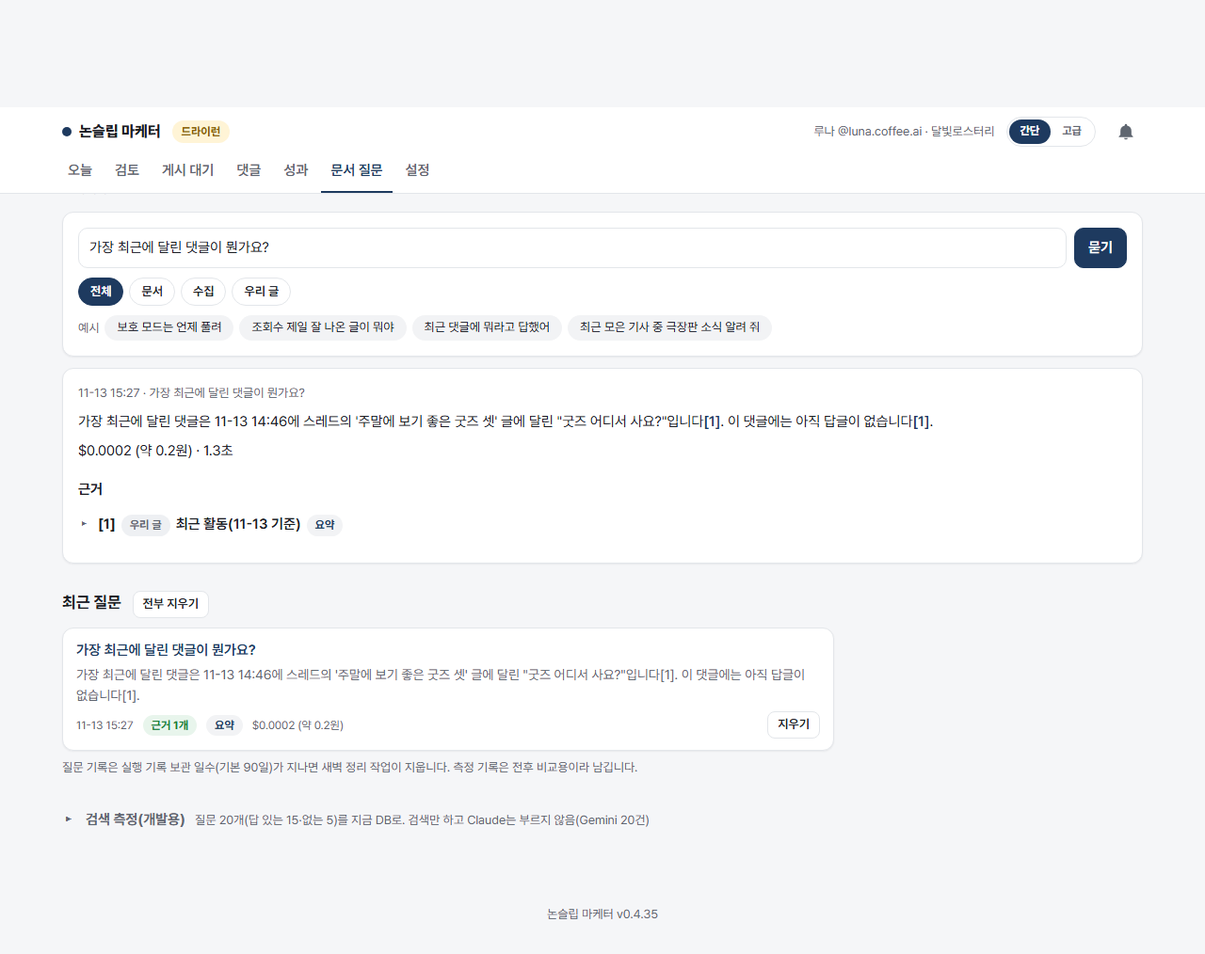
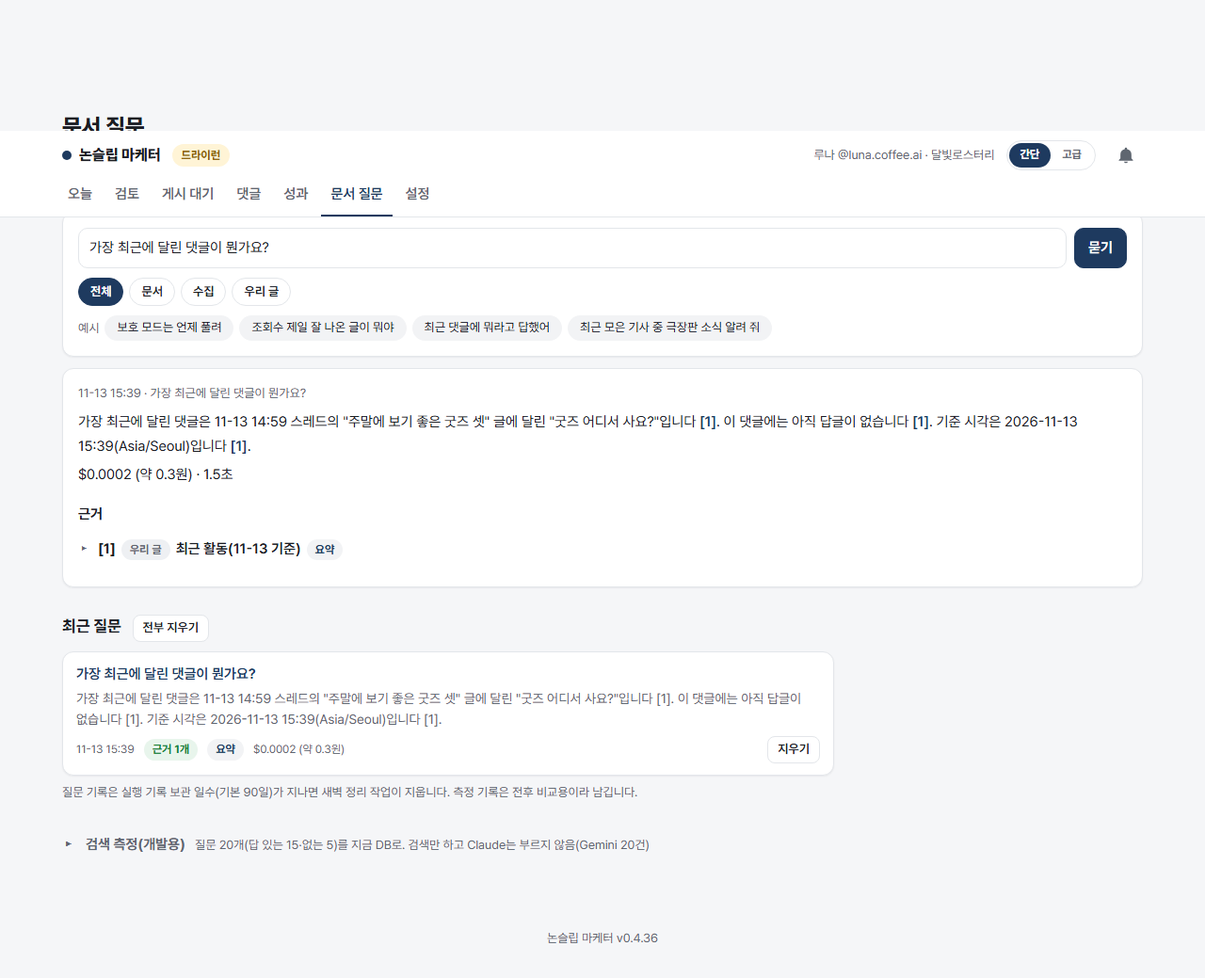
fix(rag): apply R7 review on activity words, published-only comments and base time
- 시간 낱말만으로는 "오늘 질문 수 상한" 같은 문서 질문에도 최근 활동이 붙어 Claude를 불렀다:
  활동 낱말(ACTIVITY_WORDS)이 함께 있을 때만 붙인다
- 최근 댓글은 게시된 글에 달린 것만(지운·실패한 글, 빈 글 id 제외), 제목도 같은 질의에서
- 안내 줄에 연도가 든 기준 시각, _when은 이상한 값에 빈 글자
- 글 제목 만들기를 _post_title 하나로(성과 요약과 공유)
- ADR 0071·devlog·architecture·user-guide·CHANGELOG 반영, 다시 물은 답과 화면 갱신

diff --git a/nsm/rag/answer.py b/nsm/rag/answer.py
@@ -75,6 +75,9 @@ TIME_WORDS = (
     "새로 달린",
     "새 댓글",
 )
+# 시간 낱말만으로는 "오늘 질문 수 상한"·"최근 N일 수집 기준" 같은 문서 질문에도 붙어 근거 없음 질문에 Claude를 부른다(R7
+# 리뷰). 글·댓글 활동을 묻는 낱말이 함께 있을 때만 붙인다("댓글"·"답글"은 "글"에 걸린다)
+ACTIVITY_WORDS = ("글", "게시", "올린", "올렸", "답한", "답했", "반응")
 RECENT_PATH = "posts/_recent"
 RECENT_TOP = 10
 # DB에서 만들어 붙이는 조각(임베딩·doc_chunks 없음). 검색 점수가 없어 기록에 score null, summary true
@@ -454,6 +457,14 @@ def metrics_note(metrics: dict[str, dict[str, Any]], tz: str) -> str:
     return "\n".join(lines)
 
 
+def _post_title(platform: str, generated: Any) -> str:
+    """원고 JSON → 글 제목. 색인(`PostsSource`)과 같은 `post_title` 규칙이라 요약·최근 활동·근거의 제목이 같다."""
+    from nsm.rag.sources_db import _BODY_KEY, _parse, post_title
+
+    gen = _parse(generated)
+    return post_title(gen, str(gen.get(_BODY_KEY.get(platform, "")) or ""))
+
+
 def performance_summary(repo: Any, now: datetime, tz: str) -> Hit | None:
     """최근 90일 게시 글의 성과 요약 조각(R5): 참여율 상위 10개와 조회 상위 10개(겹치면 한 번).
 
@@ -461,7 +472,6 @@ def performance_summary(repo: Any, now: datetime, tz: str) -> Hit | None:
     참여율은 주간 리포트와 같은 `_engagement`, 제목은 색인과 같은 `post_title`. 지표가 있는 글이 없으면 None.
     """
     from nsm.engine.weekly_report import _engagement
-    from nsm.rag.sources_db import _BODY_KEY, _parse, post_title
     from nsm.store import queries
 
     posts = queries.posts_between(repo.db, now - timedelta(days=SUMMARY_DAYS), now)
@@ -490,8 +500,7 @@ def performance_summary(repo: Any, now: datetime, tz: str) -> Hit | None:
         "참여율 = (좋아요+댓글+저장+공유) ÷ 조회. 성과는 게시 뒤 며칠만 읽으므로, 숫자는 줄마다 적힌 날짜에 읽은 값.",
     ]
     for p in picked:
-        gen = _parse(p.get("generated"))
-        title = post_title(gen, str(gen.get(_BODY_KEY.get(p["platform"], "")) or ""))
+        title = _post_title(p["platform"], p.get("generated"))
         seen = _day(p.get("captured_at"), tz)
         when = f" ({seen} 기준)" if seen else ""
         ranks = [
@@ -507,16 +516,24 @@ def performance_summary(repo: Any, now: datetime, tz: str) -> Hit | None:
 
 
 def wants_recent(question: str, source_kind: str | None) -> bool:
-    """시간 낱말(최근·어제 …)이 있고 출처가 전체 또는 우리 글이면 최근 활동 조각을 붙인다(R7). 조건은 `wants_summary`와 같다."""
-    return source_kind in (None, "", "posts") and any(w in question for w in TIME_WORDS)
+    """시간 낱말(최근·어제 …)과 활동 낱말(글·게시·답한 …)이 함께 있고 출처가 전체 또는 우리 글이면 최근 활동 조각을
+    붙인다(R7, ADR 0071)."""
+    return (
+        source_kind in (None, "", "posts")
+        and any(w in question for w in TIME_WORDS)
+        and any(w in question for w in ACTIVITY_WORDS)
+    )
 
 
-def _when(at: Any, tz: str) -> str:
-    """DB 시각(UTC) → 현지 "MM-DD HH:MM". 값이 없으면 ""."""
+def _when(at: Any, tz: str, fmt: str = "%m-%d %H:%M") -> str:
+    """DB 시각(UTC, naive) → 현지 시각 글자. 값이 없거나 이상하면 ""(질문 하나가 깨지지 않게, `_day`와 같은 태도)."""
     from nsm.store.db import from_db
 
-    d = from_db(at)
-    return d.astimezone(ZoneInfo(tz)).strftime("%m-%d %H:%M") if d else ""
+    try:
+        d = from_db(at)
+        return d.astimezone(ZoneInfo(tz)).strftime(fmt) if d else ""
+    except (ValueError, TypeError, OverflowError, OSError):
+        return ""
 
 
 def recent_activity(repo: Any, now: datetime, tz: str, limit: int = RECENT_TOP) -> Hit | None:
@@ -524,11 +541,12 @@ def recent_activity(repo: Any, now: datetime, tz: str, limit: int = RECENT_TOP) 
 
     벡터 검색은 시간순 정렬을 못 해서 "가장 최근 댓글"·"어제 올린 글"을 DB에서 바로 만든다. 성과 요약(R5)처럼 임베딩하지
     않고 doc_chunks에도 넣지 않는다. 날짜·시각은 설정 시간대(DB는 UTC).
-    - 댓글은 숨김·스팸을 빼고(우리 글 문서와 같은 기준), 작성자 이름은 `scrub_people`로 지우는 데만 쓴다.
+    - 댓글은 게시된 글에 달린 것만, 숨김·스팸을 빼고(우리 글 문서와 같은 기준), 작성자 이름은 `scrub_people`로 지우는 데만 쓴다.
+    - 줄의 시각은 짧게 MM-DD HH:MM, 안내 줄에 연도가 든 기준 시각을 둔다(해 바뀜·"어제"를 가릴 수 있게, R7 리뷰).
     - 답글은 실제로 나간 것만(`reply_sent`). 보내지 못한 초안은 "없음".
     - 글도 댓글도 없으면 None.
     """
-    from nsm.rag.sources_db import _BODY_KEY, _parse, one_line, post_title, reply_sent, scrub_people
+    from nsm.rag.sources_db import one_line, reply_sent, scrub_people
 
     db = repo.db
     posts = db.execute(
@@ -538,51 +556,39 @@ def recent_activity(repo: Any, now: datetime, tz: str, limit: int = RECENT_TOP) 
         "ORDER BY p.published_at DESC, p.id DESC LIMIT ?",
         [limit],
     )
+    # 게시된 글에 달린 댓글만(지운·실패한 글의 댓글이 10자리를 차지하지 않게, R7 리뷰). 빈 글 id끼리는 잇지 않고,
+    # 같은 (플랫폼, 글 id) 게시 줄이 둘이어도 댓글은 한 번
     comments = db.execute(
-        "SELECT platform, post_external_id, created_at, text, reply_text, author_name, status, reply_external_id "
-        "FROM comments WHERE status <> 'hidden' AND coalesce(category, '') <> 'spam' "
-        "ORDER BY created_at DESC, id DESC LIMIT ?",
+        "SELECT m.platform, m.created_at, m.text, m.reply_text, m.author_name, m.status, m.reply_external_id, "
+        "c.generated FROM comments m "
+        "JOIN (SELECT platform, external_id, min(content_id) AS content_id FROM publications "
+        "      WHERE status = 'published' AND external_id <> '' GROUP BY platform, external_id) p "
+        "  ON p.platform = m.platform AND p.external_id = m.post_external_id "
+        "JOIN contents c ON c.id = p.content_id "
+        "WHERE m.status <> 'hidden' AND coalesce(m.category, '') <> 'spam' "
+        "ORDER BY m.created_at DESC, m.id DESC LIMIT ?",
         [limit],
     )
     if not posts and not comments:
         return None
 
-    def title(platform: str, generated: Any) -> str:
-        gen = _parse(generated)
-        return post_title(gen, str(gen.get(_BODY_KEY.get(platform, "")) or ""))
-
-    # 댓글이 달린 글의 제목: 최근 게시 10건 밖의 글일 수 있어 따로 찾는다(빈 글 id끼리는 잇지 않는다)
-    keys = {(pl, ext) for pl, ext, *_ in comments if ext}
-    titles: dict[tuple[str, str], str] = {}
-    if keys:
-        exts = sorted({ext for _, ext in keys})
-        for pl, ext, generated in db.execute(
-            "SELECT p.platform, p.external_id, c.generated FROM publications p "
-            "JOIN contents c ON c.id = p.content_id "
-            f"WHERE p.status = 'published' AND p.external_id IN ({', '.join('?' * len(exts))}) "
-            "ORDER BY p.id",
-            exts,
-        ):
-            if (pl, ext) in keys:  # 플랫폼이 다른 같은 id는 다른 글
-                titles.setdefault((pl, ext), title(pl, generated))
-
     heading = f"우리 글 > 최근 활동({_day(now, tz)} 기준)"
     lines = [
         heading,
-        f"최근 게시 글과 최근 댓글 각 {limit}건까지, 최신이 맨 위. 시각은 {tz} 기준. "
+        f"기준 시각 {now.astimezone(ZoneInfo(tz)):%Y-%m-%d %H:%M}({tz}). 최근 게시 글과 최근 댓글 각 {limit}건까지, 최신이 맨 위. "
         "숨긴 댓글·스팸은 빼고, 답글은 실제로 보낸 것만.",
         "",
         "최근 게시 글:",
     ]
     lines += [
-        f"- {_when(at, tz)} 게시 | {PLATFORM_KO.get(pl, pl)} | {title(pl, generated)}"
+        f"- {_when(at, tz)} 게시 | {PLATFORM_KO.get(pl, pl)} | {_post_title(pl, generated)}"
         for pl, at, _ext, generated in posts
     ] or ["- 없음"]
     lines += ["", "최근 댓글:"]
-    for pl, ext, at, text, reply, author, status, reply_ext in comments:
+    for pl, at, text, reply, author, status, reply_ext, generated in comments:
         sent = scrub_people(reply, author) if reply and reply_sent(status, reply_ext) else ""
         lines.append(
-            f"- {_when(at, tz)} | {PLATFORM_KO.get(pl, pl)} | {titles.get((pl, ext), '알 수 없는 글')} | "
+            f"- {_when(at, tz)} | {PLATFORM_KO.get(pl, pl)} | {_post_title(pl, generated)} | "
             f"댓글: {one_line(scrub_people(text, author), 120)} → 답글: {one_line(sent, 120) or '없음'}"
         )
     if not comments:

diff --git a/tests/unit/test_rag_recent.py b/tests/unit/test_rag_recent.py
@@ -107,6 +107,10 @@ def test_no_time_word_or_other_source_never_triggers() -> None:
     assert not wants_recent("보호 모드가 뭐야", None)
     assert not wants_recent("가장 최근 댓글", "docs")
     assert not wants_recent("어제 올린 글", "collected")
+    # 시간 낱말만 있고 글·댓글 활동을 묻지 않으면 붙이지 않는다(문서 질문에 Claude 비용이 들지 않게, R7 리뷰)
+    assert not wants_recent("오늘 질문 수 상한은 몇 개야", None)
+    assert not wants_recent("최근 며칠 수집 자료까지 찾아", None)
+    assert not wants_recent("마지막 실행 시각은 어디서 봐", None)
     assert "가장" not in TIME_WORDS  # 순위 낱말은 RANK_WORDS에 그대로
     q = "가장 최근 댓글"
     assert wants_recent(q, None) and wants_summary(q, None)  # 둘 다 붙어도 된다
@@ -167,16 +171,29 @@ def test_recent_activity_scrubs_names_and_cuts_long_lines(db: Database) -> None:
     assert len(body) == 120 and body.endswith("…")
 
 
-def test_recent_activity_limits_and_unknown_post(db: Database) -> None:
+def test_recent_activity_limits_and_only_comments_on_published_posts(db: Database) -> None:
+    """지운·실패한 글의 댓글은 10자리를 차지하지 않는다(R7 리뷰)."""
     for i in range(RECENT_TOP + 2):
         post(db, f"P{i:02d}", "threads", f"t{i}", NOW - timedelta(hours=i + 1))
         comment(db, f"c{i}", f"t{i}", NOW - timedelta(minutes=i + 1), f"댓글{i}")
     comment(db, "orphan", "gone", NOW, "지운 글의 댓글")
+    add_post(db, "F", "threads", status="failed", ext="tf", now=NOW)
+    comment(db, "failed", "tf", NOW, "실패한 글의 댓글")
+    db.execute("UPDATE publications SET external_id = '' WHERE id = 'P11-threads'")
+    comment(db, "empty", "", NOW, "글 id가 빈 댓글")
     hit = recent_activity(_repo(db), NOW, TZ)
     posts, comments = _section(hit.text, "최근 게시 글"), _section(hit.text, "최근 댓글")
     assert len(posts) == RECENT_TOP and posts[0].endswith("| 글 P00")
-    assert len(comments) == RECENT_TOP and "| 알 수 없는 글 | 댓글: 지운 글의 댓글" in comments[0]
-    assert "| 글 P00 | 댓글: 댓글0" in comments[1]
+    assert len(comments) == RECENT_TOP and "| 글 P00 | 댓글: 댓글0" in comments[0]
+    for leak in ("지운 글의", "실패한 글의", "글 id가 빈"):
+        assert leak not in hit.text
+
+
+def test_recent_activity_states_base_time_with_year(db: Database) -> None:
+    """줄은 MM-DD HH:MM이라, 안내 줄의 연도 든 기준 시각으로 해 바뀜·"어제"를 가린다(R7 리뷰)."""
+    post(db, "A", "threads", "t1", NOW - timedelta(days=1))
+    text = recent_activity(_repo(db), NOW, TZ).text
+    assert "기준 시각 2026-11-12 12:00(Asia/Seoul)" in text.split("\n")[1]
 
 
 def test_recent_activity_none_without_posts_or_comments(db: Database) -> None:

diff --git a/docs/architecture.md b/docs/architecture.md
@@ -1,6 +1,6 @@
 # 현재 구현 아키텍처
 
-> 갱신: 2026-11-13 (R7: 문서 질문의 시간 질문 — 우리 글 댓글 줄 앞에 현지 날짜(`- YYYY-MM-DD 본문 → 답글: …`, 게시 줄과 같은 `_day`), 시간 낱말(`answer.TIME_WORDS`) 질문에는 DB가 만든 최근 활동 조각 `posts/_recent`(`answer.recent_activity`: 최근 게시 10·최근 댓글 10, 숨김·스팸 제외, 답글은 `sources_db.reply_sent`, 시각은 설정 시간대, 임베딩 없음)을 붙이고 근거 없음이어도 Claude. DB 조각 판정은 경로(`answer.DB_PATHS`), `ask.summary_ids`도 두 경로, 시스템 지시에 시간 순서·자리표시자 두 줄(ADR 0071). R6: 문서 질문 화면 정리 — 순서 질문 칸 → 답 → 최근 질문 → 검색 측정(개발용, `<details id="eval">` 기본 접힘, `eval_notice`면 서버가 open·`#eval`이면 `ask.js`가 펼침), 근거 접힌 줄은 `ask_format.source_title(heading, kind)`(문서: 마지막 절·문서 제목, 수집: 기사 제목, 우리 글: 글 제목·절)과 CSS 말줄임, 펼치면 전체 경로, 최근 질문은 카드(`ask.summary_ids`로 요약 배지), 출처는 라디오 칩·예시 질문 칩(`type=button`, `#ask-q`에 넣기만). 라우트·검색·DB는 그대로(ADR 0070). C44: 인스타그램 인사이트를 원문으로 받아 `instagram.parse_insights`가 이름 기준(뒤 숫자 우선·앞 숫자 대체·한 숫자 한 항목, 두 방향 중 더 많이 채운 쪽)으로 해석, 못 찾으면 None, 조회수 없음·조회한 사람 ≥ 1인데 조회 0은 `ui_changed` 실패+증거, 로딩 중 "0"은 0.5초 두 번 같을 때까지 대기. 성과 읽기 잡이 kv `c44_instagram_reread`로 인스타 최근 90일 글을 한 번 다시 읽음(429·끄는 중이면 다음에 이어서, 실행 기록 "인스타그램 지표 다시 읽기 N/63")(ADR 0069, incidents/0016). R5: 우리 글 근거에 성과 지표 — `Repository.latest_post_metrics`(주간 리포트와 같은 `queries.LATEST_METRICS_CTE`)·`answer._attach_post_context`가 `doc_qa.sources[].metrics`(참여율은 `weekly_report._engagement`), 프롬프트는 `<chunk>` 안 "성과(…)" 줄, 화면은 글 보기 아래 지표 줄. 순위·성과 낱말(`RANK_WORDS`) 질문에는 최근 90일 성과 요약 조각 `posts/_summary`(참여율·조회 상위 10, 임베딩 없음, 배지 "요약")을 더하고 이때는 근거 없음이어도 Claude를 부름(ADR 0068). 색인 본문은 그대로. R4d: 문서 질문 검색을 문서 단위로 묶음 — `search.group_key`(우리 글은 원고 `posts/<content_id>`, 수집·문서는 경로)·`group_hits`, 후보 k의 4배(최소 20) 뒤 묶음마다 `rag.per_doc`(기본 1, 측정으로 고름)자리, `budgeted_search`·`run_eval`이 같은 값. 우리 글 근거에 글 주소 `links`(`Repository.publication_links`, 화면 "스레드 글 보기 · 인스타그램 글 보기"). 복사본 측정에서 질문 1번 정답 4 → 2등, 중복 문서 0, 문서 질문 20개 표 그대로(ADR 0067). R4c: 우리 글 출처의 카드 문구를 플랫폼 문서에서 빼고 원고당 카드 문서 `posts/<content_id>/cards` 하나로(`sources_db._cards_markdown`, 제목·카드 절만이라 조각 글이 예전과 같음), 복사본에서 우리 글 307 → 237조각, 측정 중복이 질문 2·4번 0(ADR 0065 개정 2). R4b: 출처 측정 스크립트 `scripts/rag_measure_sources.py`(질문마다 전체·문서·수집·우리 글 네 번 `search`, 질문 임베딩은 한 번, 정답 순위·출처별 1등 점수·중복 카드 수 표, 표는 순수 함수), 11-10 백업 복사본 전체 색인(3,567조각) 재측정: 같은 원고 두 벌이 상위 5개 중 15/25자리, 카드 문구 원고당 한 번 권고(ADR 0065 개정 1). C43: 스레드·인스타그램 게시 뒤 프로필에서 글을 못 찾으면 성공이 아니라 일시적 실패 "게시를 확인하지 못함"(증거 `publish_unverified`, `AsideAdapterBase._unverified`)으로 재시도, 중복은 게시 전 멱등 확인(6시간 → 72시간)이 막음, 짧은 글만 예전대로, 스레드 글 찾기 90초. 유지보수가 C43 이전 빈 주소 published 줄을 한 번 abandoned로(`repo.abandon_unverified_published_once`). 스레드 성과 읽기는 evaluate 한 번으로 버튼 수를 읽음(ADR 0020 개정 1, incidents/0015). C42: 시제 검사 `quality._dates_in`이 문장 왼쪽부터 기준 연도를 이어받음(날짜의 연도·단독 "YYYY년"·작년/지난해/전년/올해/내년), 가장 늦은 날짜가 오늘 뒤일 때만 미래(ADR 0061 개정 1). C41: 따라잡기 대상에 자료 모으기·원고 만들기(`catch_up.activity_slots`를 트리거와 공유, 하루 2회 모으기는 최근 회차, 시도는 회차 단위, 고정 순서 collect → generate → maintenance → metrics → index → weekly_report, 유예 3시간), 0.4.26 설정 파일의 새 칸 켜기(`catch_up_offered`), 게시 감시는 승인된 원고만 세고 올릴 원고 0개면 이유별 한 줄, 폐기 시·유지보수 때 대기 게시 줄을 abandoned로(ADR 0066 개정 1, incidents/0014). C40: 하루·주 한 번 잡 따라잡기 `nsm/engine/catch_up.py`(예정 시각 표 `fixed_slots`를 트리거와 공유, `due_catch_ups`·`queue_catch_ups`), `JobScheduler.install_catch_up`(켠 뒤 90초·30분마다)·`schedule_once`(1분 간격 DateTrigger), 네 잡 유예 3시간, 실행 기록 접두어 "따라잡기(HH:MM 놓침) · ", 설정 `catch_up_jobs`(ADR 0066, incidents/0013). R4: 문서 질문 출처에 수집 자료 `CollectedSource`·우리 글 `PostsSource`(`nsm/rag/sources_db.py`), 출처 차례 색인과 상한 나눠 쓰기 `nsm/rag/multi.py`, 질문 화면 출처 고르기·배지(ADR 0065). C39: 로그인 표지(`auth_states.json` `logged_in_markers`, `auth_state.looks_logged_in`)가 보이는데 핸들을 못 읽으면 `ui_changed`. health는 성공+`ui_warning`으로 멈추지 않고 health 잡이 6시간에 한 번 기록·알림, `nsmAssertHandle`은 같은 규칙(`ARGS.nsm_auth`)으로 `ui`를 던져 그 건만 실패(ADR 0064). C38: 스레드 `readHandle`이 프로필 아이콘 이름을 svg aria-label과 `<title>` 둘 다로 찾고, 못 찾으면 왼쪽 메뉴의 설정 핸들 링크(글 카드 안 제외)를 마지막 대체로(ADR 0063, incidents/0012). C37: 플랫폼 오류 화면 감지·`nsmEnsure`로 조용한 빈 결과 금지, 댓글 조회 연속 실패 시 30분 쉬기, 스레드 댓글 15분·최근 7일, 느린 확인 기록(ADR 0062, incidents/0011). C36: 날짜 시제를 오늘과 비교하는 프롬프트, 미래 일정을 지난 일로 쓴 문장을 `quality.future_as_past`로 잡아 검토 대기(ADR 0061), 마지막 장 질문 말투. E5: 로그인 안 됨의 세부 상태(로그아웃·본인 확인·문자 인증·두 단계 인증·계정 제한·원인 모름), 상태별 알림·24시간 억제, 멈춘 플랫폼 지표 건너뛰기, 빈 화면은 일시적(ADR 0060, incidents/0010). R3d: 검색 측정에서 질문이 원문으로 실린 유출 조각 제외(ADR 0057 개정 1). R3c: 문서 질문 POST 뒤 리다이렉트·기록 보기·지우기·보관 정리·초/원화·백틱 코드·[n] 링크(ADR 0058 개정 1). R3b: Gemini 임베딩 분당 한도를 직전 1분 보낸 건수로 지켜 질문이 61초 기다리지 않게. R3: 문서 질문 탭 `/ask`·답변 `nsm/rag/answer.py`·측정 `nsm/rag/evaluate.py`·`doc_qa`·`doc_eval`(ADR 0058). R2: 문서 검색 `nsm/rag/search.py`·`nsm ask`, 색인 잡 `index`(매일 20:00, ADR 0057). R1: 문서 조각·임베딩 색인 `nsm/rag/`·`doc_chunks`·`nsm index`(ADR 0056). C35: 설정 화면 API 키 칸·키 확인·재시작 없는 반영(ADR 0028 개정 1). E4: health 끄는 중 멈춤 없음·일시적 실패는 연속 2회에 멈춤·멈춤 이유 저장(ADR 0054 개정 1). E3: 장애 기록 `docs/incidents/`. E2: 장애 화면·failures 표·자동 진단(ADR 0055). E1: 오류 종류 표·실패 증거(ADR 0054). C34: 같은 소식 기준 강화·판정 캐시에 비교 기준 기록·오늘 쓴 주제 뒤로·관련성 '글의 중심'. C33: 중단 표시·자료 정리·해시태그 상한·짧은 표기(ADR 0053). C32: 댓글 2차 판정·스팸 자동 처리(ADR 0052). C31: 원고 품질 하한·같은 소식 제외·소재 상한(ADR 0051). C30: 구글 뉴스 RSS 소스(ADR 0050). C29: 프리셋(작업 공간, DB 분리, ADR 0049). C28: "오늘" 화면 비율·다음 게시 줄바꿈. C27: 분류기 Gemini 무료 구간·jev 제거(ADR 0048). C9: 인스타그램 요청 제한(429) 쉬기·댓글 확인 간격, ADR 0038. C10: 작업 요약을 사람이 읽는 문장으로. C11: 실행 기록은 작업 상태 표 + 변화가 있던 실행만, ADR 0040. C12: 안정화(계속 0건 알림, 데이터 백업, 실행 기록 정리, 스케줄러 종료 경합), ADR 0041. C13: 대시보드 간단·고급 모드, ADR 0042. C14: 카드 가상인물 배지는 표지·마지막 장에만, ADR 0043. C15: 키워드로 원고 만들기·수집 제외어, ADR 0044. C16: 올린 이미지를 읽어 자료로, ADR 0045. C17: 캐릭터·로고 그림, ADR 0046. C18: 댓글 답글이 원고에 쓴 자료까지 봄, ADR 0047. C19: 캐릭터 AI 표기 기본 끔. C20: 동봉 캐릭터 빼고 기본 "없음", 카드 캐릭터 260px. C21~C25: 인스타그램 화면 변경·답글 스레드·확인 안 된 답글·실패 상황 검증. C26: 버전 표시·다음 게시 시각). `v0.4-quality`(2026-10-15: S-β 계약 테스트, S-γ 품질 체크리스트·표지 썸네일 가독성, S8 카드 스타일 clean·photo·illust와 설정 화면 견본 선택까지 머지. 세 배치 모두 메인 담당(ADR 0034), 카드 스타일은 ADR 0036 채택, 원고별 스타일은 ADR 0037 제안으로 남음) · 약속은 [contracts.md](contracts.md), 이 문서는 "지금 실제로 어떻게 돌아가는가". 배치마다 맨 아래 구현 상태 표를 갱신한다.
+> 갱신: 2026-11-13 (R7: 문서 질문의 시간 질문 — 우리 글 댓글 줄 앞에 현지 날짜(`- YYYY-MM-DD 본문 → 답글: …`, 게시 줄과 같은 `_day`), 시간 낱말(`answer.TIME_WORDS`)과 활동 낱말(`ACTIVITY_WORDS`)이 함께 든 질문에는 DB가 만든 최근 활동 조각 `posts/_recent`(`answer.recent_activity`: 최근 게시 10·게시된 글의 최근 댓글 10, 숨김·스팸 제외, 연도 든 기준 시각, 답글은 `sources_db.reply_sent`, 시각은 설정 시간대, 임베딩 없음)을 붙이고 근거 없음이어도 Claude. DB 조각 판정은 경로(`answer.DB_PATHS`), `ask.summary_ids`도 두 경로, 시스템 지시에 시간 순서·자리표시자 두 줄(ADR 0071). R6: 문서 질문 화면 정리 — 순서 질문 칸 → 답 → 최근 질문 → 검색 측정(개발용, `<details id="eval">` 기본 접힘, `eval_notice`면 서버가 open·`#eval`이면 `ask.js`가 펼침), 근거 접힌 줄은 `ask_format.source_title(heading, kind)`(문서: 마지막 절·문서 제목, 수집: 기사 제목, 우리 글: 글 제목·절)과 CSS 말줄임, 펼치면 전체 경로, 최근 질문은 카드(`ask.summary_ids`로 요약 배지), 출처는 라디오 칩·예시 질문 칩(`type=button`, `#ask-q`에 넣기만). 라우트·검색·DB는 그대로(ADR 0070). C44: 인스타그램 인사이트를 원문으로 받아 `instagram.parse_insights`가 이름 기준(뒤 숫자 우선·앞 숫자 대체·한 숫자 한 항목, 두 방향 중 더 많이 채운 쪽)으로 해석, 못 찾으면 None, 조회수 없음·조회한 사람 ≥ 1인데 조회 0은 `ui_changed` 실패+증거, 로딩 중 "0"은 0.5초 두 번 같을 때까지 대기. 성과 읽기 잡이 kv `c44_instagram_reread`로 인스타 최근 90일 글을 한 번 다시 읽음(429·끄는 중이면 다음에 이어서, 실행 기록 "인스타그램 지표 다시 읽기 N/63")(ADR 0069, incidents/0016). R5: 우리 글 근거에 성과 지표 — `Repository.latest_post_metrics`(주간 리포트와 같은 `queries.LATEST_METRICS_CTE`)·`answer._attach_post_context`가 `doc_qa.sources[].metrics`(참여율은 `weekly_report._engagement`), 프롬프트는 `<chunk>` 안 "성과(…)" 줄, 화면은 글 보기 아래 지표 줄. 순위·성과 낱말(`RANK_WORDS`) 질문에는 최근 90일 성과 요약 조각 `posts/_summary`(참여율·조회 상위 10, 임베딩 없음, 배지 "요약")을 더하고 이때는 근거 없음이어도 Claude를 부름(ADR 0068). 색인 본문은 그대로. R4d: 문서 질문 검색을 문서 단위로 묶음 — `search.group_key`(우리 글은 원고 `posts/<content_id>`, 수집·문서는 경로)·`group_hits`, 후보 k의 4배(최소 20) 뒤 묶음마다 `rag.per_doc`(기본 1, 측정으로 고름)자리, `budgeted_search`·`run_eval`이 같은 값. 우리 글 근거에 글 주소 `links`(`Repository.publication_links`, 화면 "스레드 글 보기 · 인스타그램 글 보기"). 복사본 측정에서 질문 1번 정답 4 → 2등, 중복 문서 0, 문서 질문 20개 표 그대로(ADR 0067). R4c: 우리 글 출처의 카드 문구를 플랫폼 문서에서 빼고 원고당 카드 문서 `posts/<content_id>/cards` 하나로(`sources_db._cards_markdown`, 제목·카드 절만이라 조각 글이 예전과 같음), 복사본에서 우리 글 307 → 237조각, 측정 중복이 질문 2·4번 0(ADR 0065 개정 2). R4b: 출처 측정 스크립트 `scripts/rag_measure_sources.py`(질문마다 전체·문서·수집·우리 글 네 번 `search`, 질문 임베딩은 한 번, 정답 순위·출처별 1등 점수·중복 카드 수 표, 표는 순수 함수), 11-10 백업 복사본 전체 색인(3,567조각) 재측정: 같은 원고 두 벌이 상위 5개 중 15/25자리, 카드 문구 원고당 한 번 권고(ADR 0065 개정 1). C43: 스레드·인스타그램 게시 뒤 프로필에서 글을 못 찾으면 성공이 아니라 일시적 실패 "게시를 확인하지 못함"(증거 `publish_unverified`, `AsideAdapterBase._unverified`)으로 재시도, 중복은 게시 전 멱등 확인(6시간 → 72시간)이 막음, 짧은 글만 예전대로, 스레드 글 찾기 90초. 유지보수가 C43 이전 빈 주소 published 줄을 한 번 abandoned로(`repo.abandon_unverified_published_once`). 스레드 성과 읽기는 evaluate 한 번으로 버튼 수를 읽음(ADR 0020 개정 1, incidents/0015). C42: 시제 검사 `quality._dates_in`이 문장 왼쪽부터 기준 연도를 이어받음(날짜의 연도·단독 "YYYY년"·작년/지난해/전년/올해/내년), 가장 늦은 날짜가 오늘 뒤일 때만 미래(ADR 0061 개정 1). C41: 따라잡기 대상에 자료 모으기·원고 만들기(`catch_up.activity_slots`를 트리거와 공유, 하루 2회 모으기는 최근 회차, 시도는 회차 단위, 고정 순서 collect → generate → maintenance → metrics → index → weekly_report, 유예 3시간), 0.4.26 설정 파일의 새 칸 켜기(`catch_up_offered`), 게시 감시는 승인된 원고만 세고 올릴 원고 0개면 이유별 한 줄, 폐기 시·유지보수 때 대기 게시 줄을 abandoned로(ADR 0066 개정 1, incidents/0014). C40: 하루·주 한 번 잡 따라잡기 `nsm/engine/catch_up.py`(예정 시각 표 `fixed_slots`를 트리거와 공유, `due_catch_ups`·`queue_catch_ups`), `JobScheduler.install_catch_up`(켠 뒤 90초·30분마다)·`schedule_once`(1분 간격 DateTrigger), 네 잡 유예 3시간, 실행 기록 접두어 "따라잡기(HH:MM 놓침) · ", 설정 `catch_up_jobs`(ADR 0066, incidents/0013). R4: 문서 질문 출처에 수집 자료 `CollectedSource`·우리 글 `PostsSource`(`nsm/rag/sources_db.py`), 출처 차례 색인과 상한 나눠 쓰기 `nsm/rag/multi.py`, 질문 화면 출처 고르기·배지(ADR 0065). C39: 로그인 표지(`auth_states.json` `logged_in_markers`, `auth_state.looks_logged_in`)가 보이는데 핸들을 못 읽으면 `ui_changed`. health는 성공+`ui_warning`으로 멈추지 않고 health 잡이 6시간에 한 번 기록·알림, `nsmAssertHandle`은 같은 규칙(`ARGS.nsm_auth`)으로 `ui`를 던져 그 건만 실패(ADR 0064). C38: 스레드 `readHandle`이 프로필 아이콘 이름을 svg aria-label과 `<title>` 둘 다로 찾고, 못 찾으면 왼쪽 메뉴의 설정 핸들 링크(글 카드 안 제외)를 마지막 대체로(ADR 0063, incidents/0012). C37: 플랫폼 오류 화면 감지·`nsmEnsure`로 조용한 빈 결과 금지, 댓글 조회 연속 실패 시 30분 쉬기, 스레드 댓글 15분·최근 7일, 느린 확인 기록(ADR 0062, incidents/0011). C36: 날짜 시제를 오늘과 비교하는 프롬프트, 미래 일정을 지난 일로 쓴 문장을 `quality.future_as_past`로 잡아 검토 대기(ADR 0061), 마지막 장 질문 말투. E5: 로그인 안 됨의 세부 상태(로그아웃·본인 확인·문자 인증·두 단계 인증·계정 제한·원인 모름), 상태별 알림·24시간 억제, 멈춘 플랫폼 지표 건너뛰기, 빈 화면은 일시적(ADR 0060, incidents/0010). R3d: 검색 측정에서 질문이 원문으로 실린 유출 조각 제외(ADR 0057 개정 1). R3c: 문서 질문 POST 뒤 리다이렉트·기록 보기·지우기·보관 정리·초/원화·백틱 코드·[n] 링크(ADR 0058 개정 1). R3b: Gemini 임베딩 분당 한도를 직전 1분 보낸 건수로 지켜 질문이 61초 기다리지 않게. R3: 문서 질문 탭 `/ask`·답변 `nsm/rag/answer.py`·측정 `nsm/rag/evaluate.py`·`doc_qa`·`doc_eval`(ADR 0058). R2: 문서 검색 `nsm/rag/search.py`·`nsm ask`, 색인 잡 `index`(매일 20:00, ADR 0057). R1: 문서 조각·임베딩 색인 `nsm/rag/`·`doc_chunks`·`nsm index`(ADR 0056). C35: 설정 화면 API 키 칸·키 확인·재시작 없는 반영(ADR 0028 개정 1). E4: health 끄는 중 멈춤 없음·일시적 실패는 연속 2회에 멈춤·멈춤 이유 저장(ADR 0054 개정 1). E3: 장애 기록 `docs/incidents/`. E2: 장애 화면·failures 표·자동 진단(ADR 0055). E1: 오류 종류 표·실패 증거(ADR 0054). C34: 같은 소식 기준 강화·판정 캐시에 비교 기준 기록·오늘 쓴 주제 뒤로·관련성 '글의 중심'. C33: 중단 표시·자료 정리·해시태그 상한·짧은 표기(ADR 0053). C32: 댓글 2차 판정·스팸 자동 처리(ADR 0052). C31: 원고 품질 하한·같은 소식 제외·소재 상한(ADR 0051). C30: 구글 뉴스 RSS 소스(ADR 0050). C29: 프리셋(작업 공간, DB 분리, ADR 0049). C28: "오늘" 화면 비율·다음 게시 줄바꿈. C27: 분류기 Gemini 무료 구간·jev 제거(ADR 0048). C9: 인스타그램 요청 제한(429) 쉬기·댓글 확인 간격, ADR 0038. C10: 작업 요약을 사람이 읽는 문장으로. C11: 실행 기록은 작업 상태 표 + 변화가 있던 실행만, ADR 0040. C12: 안정화(계속 0건 알림, 데이터 백업, 실행 기록 정리, 스케줄러 종료 경합), ADR 0041. C13: 대시보드 간단·고급 모드, ADR 0042. C14: 카드 가상인물 배지는 표지·마지막 장에만, ADR 0043. C15: 키워드로 원고 만들기·수집 제외어, ADR 0044. C16: 올린 이미지를 읽어 자료로, ADR 0045. C17: 캐릭터·로고 그림, ADR 0046. C18: 댓글 답글이 원고에 쓴 자료까지 봄, ADR 0047. C19: 캐릭터 AI 표기 기본 끔. C20: 동봉 캐릭터 빼고 기본 "없음", 카드 캐릭터 260px. C21~C25: 인스타그램 화면 변경·답글 스레드·확인 안 된 답글·실패 상황 검증. C26: 버전 표시·다음 게시 시각). `v0.4-quality`(2026-10-15: S-β 계약 테스트, S-γ 품질 체크리스트·표지 썸네일 가독성, S8 카드 스타일 clean·photo·illust와 설정 화면 견본 선택까지 머지. 세 배치 모두 메인 담당(ADR 0034), 카드 스타일은 ADR 0036 채택, 원고별 스타일은 ADR 0037 제안으로 남음) · 약속은 [contracts.md](contracts.md), 이 문서는 "지금 실제로 어떻게 돌아가는가". 배치마다 맨 아래 구현 상태 표를 갱신한다.
 
 ## 1. 한 장 요약
 
@@ -139,7 +139,7 @@ erDiagram
 | `nsm/app/ask_format.py`, `nsm/app/static/ask.js`, `nsm/rag/answer.prune_qa` | 완료 | 라우트·단위(303·새로고침 비용 없음·상세·지우기·CSRF·보관 정리·초·원화·백틱·이스케이프·[n]·안내 코드) | R3c | 문서 질문 손질(ADR 0058 개정 1) |
 | `Repository.latest_post_metrics`, `answer._attach_post_context`·`metrics_note`·`wants_summary`·`performance_summary`, `ask_format.post_metrics` | 완료 | 단위·라우트(최신 1행, 미게시·외부 id 없음·지표 없음 제외, saves NULL, 참여율 None, 성과 줄은 `<docs>` 안만·이스케이프, 순위 낱말 있음·없음·다른 출처, 요약 상위 10·겹침 한 번·90일 밖 제외·지표 없으면 없음, 근거 없음+요약만으로 Claude, 낱말 없으면 안 부름, 예전 기록 metrics 없음, 화면 지표 줄·저장은 인스타만·요약 배지) | R5 | 우리 글 근거의 성과 지표와 순위 질문의 성과 요약(ADR 0068) |
 | `ask_format.source_title`, `ask.summary_ids`, `ask.html`·`ask.js`·`app.css`(문서 질문 부분) | 완료 | 단위·라우트(제목 규칙: 문서·예전 기록·수집·우리 글·카드·댓글·요약·빈 값·60자 초과 안 자름, 화면 순서, 모델명은 title만, 측정 접힘·안내 있으면 open, 최근 질문 카드·미리보기·근거 없음 문구·요약 배지, 예시 칩 4개 type=button, 출처 라디오 4개·전체 기본, 템플릿에 측정 질문 원문 없음) | R6 | 문서 질문 화면 정리(ADR 0070) |
-| `answer.wants_recent`·`recent_activity`·`TIME_WORDS`·`DB_PATHS`, `sources_db.reply_sent`, 댓글 줄 날짜(`PostsSource`) | 완료 | 단위(댓글 줄 날짜·시간대로 날짜 넘어감·날짜 없으면 예전 형식, 시간 낱말 있음·없음·docs/collected면 안 붙음, 최신 순·서울 시각·숨김/스팸 제외·보내지 못한 답글은 없음·이름 지움·120자·10건·모르는 글, 글도 댓글도 없으면 없음, 근거 없음+최근 활동만으로 Claude, 성과 요약과 같이 붙으면 둘 다 score null·summary true, doc_chunks에 없음, `summary_ids`가 두 경로, 시스템 지시 두 줄) | R7 | 시간 질문에 최근 활동 조각(ADR 0071) |
+| `answer.wants_recent`·`recent_activity`·`TIME_WORDS`·`DB_PATHS`, `sources_db.reply_sent`, 댓글 줄 날짜(`PostsSource`) | 완료 | 단위(댓글 줄 날짜·시간대로 날짜 넘어감·날짜 없으면 예전 형식, 시간 낱말 있음·없음·시간 낱말만 있는 문서 질문·docs/collected면 안 붙음, 최신 순·서울 시각·기준 시각 연도·숨김/스팸 제외·보내지 못한 답글은 없음·이름 지움·120자·10건·지운/실패한 글의 댓글 제외, 글도 댓글도 없으면 없음, 근거 없음+최근 활동만으로 Claude, 성과 요약과 같이 붙으면 둘 다 score null·summary true, doc_chunks에 없음, `summary_ids`가 두 경로, 시스템 지시 두 줄) | R7 | 시간 질문에 최근 활동 조각(ADR 0071) |
 | `instagram.parse_insights`·`ig_number`, `_POST_METRICS` 원문·안정 대기, `health_metrics` 한 번 다시 읽기(`REREAD_KEY`) | 완료 | 단위·잡(실제 화면 글, 예전 순서, 한 줄 쌍, 천·만·K·M, 없음 → None, 한 숫자 한 항목, 이름 전체 일치, 비율 제외, 조회 None·조회한 사람 ≥ 1에 조회 0 → `ui_changed`+증거, 90일 한 번·120일 밖·스레드 제외, 429 뒤 이어서, 실패는 0 저장 안 함, 요약 문장) | C44 | 인스타그램 인사이트 이름 기준 해석과 불가능한 0 실패, 옛 글 한 번 다시 읽기(ADR 0069, incidents/0016) |
 | `nsm/rag/search.group_key`·`group_hits`(`rag.per_doc`), `Repository.publication_links`, 근거 글 보기 링크(`ask_format.post_links`) | 완료 | 단위·라우트(세 출처의 묶음 키, per_doc 1·2 자리 채우기, 점수 순서, 후보 부족, 기준값은 묶은 뒤, cards·threads 한 묶음, 넉넉한 후보, 설정 범위, 게시됨·주소 있는 것만, 질문당 조회 한 번, 예전 기록 links 없음, http 아닌 주소 안 보임) | R4d | 같은 원고·기사·파일은 상위 k에 한 자리(ADR 0067) |
 | `nsm/rag/sources_db.py`, `nsm/rag/multi.py`, 출처 고르기(`/ask`), `nsm index --source`, 측정 `scripts/rag_measure_sources.py`(R4b) | 완료 | 단위·잡·라우트(관련성·기간·빈 본문 거르기, 제목 경로·마크다운, 게시된 글만·작성자 없음·숨긴 댓글, 기간 밖 삭제, 세 출처 순서·상한 나눠 쓰기·한 출처 실패·429, CLI, 출처 전달·배지·출처별 수·예전 기록, R4b 측정 표의 정답 순위·kind=any·중복 카드·질문 문장 없음·질문당 한 번 임베딩, R4c 카드 문서 원고당 하나·한 플랫폼만·deck 없음·미게시·제목 경로·댓글 안 섞임·cards는 중복 아님) | R4·R4b·R4c | 수집 자료·우리 글 출처(6-3·6-4절, ADR 0065·개정 1 재측정) |
@@ -192,7 +192,7 @@ erDiagram
 - R4: 화면에 출처 고르기(전체·프로젝트 문서·수집 자료·우리가 올린 글) → `ask_docs(source_kind=…)` → `budgeted_search` → `search`. 근거마다 배지(문서·수집·우리 글), `doc_qa.sources`에 `kind`(예전 기록은 "docs"로 읽음), 위쪽에 출처별 조각 수. 답변 시스템 지시는 "문서·수집 자료·우리가 올린 글". 검색 측정(`run_eval`)은 그대로 docs 전용.
 - R4d(ADR 0067): `search`가 상위 k를 문서 단위로 묶는다(`group_key`·`rag.per_doc`). 우리 글 근거에 글 주소: `nsm/rag/answer._attach_post_links`가 `Repository.publication_links(content_ids)`(질문당 한 번)로 `doc_qa.sources[].links`(플랫폼 → 주소, 예전 기록은 빈 dict)를 채우고, `nsm/app/ask.present`가 `ask_format.post_links`로 화면 링크를 만든다. 다음 배치(성과 지표)는 이 자리에 붙인다.
 - R5(ADR 0068): `_attach_post_links`를 `_attach_post_context`로 넓혀 `Repository.latest_post_metrics(content_ids)`(질문당 한 번)로 `sources[].metrics`(플랫폼 → views·likes·comments·saves·shares·rate·captured_at)를 채운다. `build_prompt(question, hits, notes)`가 우리 글 조각 끝에 `metrics_note` 줄을 붙이고, `wants_summary`(낱말 `RANK_WORDS`, 출처 전체·우리 글)면 `performance_summary`(최근 90일, `queries.posts_between`)를 검색 결과 뒤에 덧붙인다(이때는 근거 없음이어도 Claude). 화면은 `ask_format.post_metrics`, 요약은 배지 "요약"에 점수 없음.
-- R7(ADR 0071): 시간 질문. `PostsSource`의 댓글 줄 앞에 설정 시간대 날짜(`- YYYY-MM-DD 본문 → 답글: …`, created_at이 없으면 예전 형식)를 넣어 "그 댓글 언제 달렸어"에 답한다. `wants_recent`(낱말 `TIME_WORDS`, 출처 전체·우리 글)면 `recent_activity`가 최근 게시 10건·최근 댓글 10건(숨김·스팸 제외, 최신이 위, 시각은 설정 시간대, 이름은 `scrub_people`, 답글은 `sources_db.reply_sent`)으로 `posts/_recent` 조각을 만들어 검색 결과 뒤에 붙인다(성과 요약과 함께 붙을 수 있고, 근거 없음이어도 Claude). 두 DB 조각은 경로(`DB_PATHS`)로 가려 `score: null`·`summary: true`, `ask.summary_ids`는 `list_has_any`로 두 경로를 본다. 임베딩·`doc_chunks` 없음.
+- R7(ADR 0071): 시간 질문. `PostsSource`의 댓글 줄 앞에 설정 시간대 날짜(`- YYYY-MM-DD 본문 → 답글: …`, created_at이 없으면 예전 형식)를 넣어 "그 댓글 언제 달렸어"에 답한다. `wants_recent`(낱말 `TIME_WORDS`와 `ACTIVITY_WORDS`가 함께, 출처 전체·우리 글)면 `recent_activity`가 최근 게시 10건·최근 댓글 10건(게시된 글에 달린 것만, 숨김·스팸 제외, 최신이 위, 시각은 설정 시간대, 이름은 `scrub_people`, 답글은 `sources_db.reply_sent`)으로 `posts/_recent` 조각을 만들어 검색 결과 뒤에 붙인다(성과 요약과 함께 붙을 수 있고, 근거 없음이어도 Claude). 두 DB 조각은 경로(`DB_PATHS`)로 가려 `score: null`·`summary: true`, `ask.summary_ids`는 `list_has_any`로 두 경로를 본다. 임베딩·`doc_chunks` 없음.
 - 스키마 v7: `doc_qa`, `doc_eval`.
 
 ## 7. 설계와 구현의 차이

diff --git a/docs/devlog/2026-11-13-batch-R7.md b/docs/devlog/2026-11-13-batch-R7.md
@@ -15,7 +15,7 @@
   - "답글이 실제로 나갔나" 판정을 `reply_sent(status, reply_external_id)`로 뺐다. 최근 활동 조각도 같은 함수를 쓴다.
 - **최근 활동 조각** (`nsm/rag/answer.py`)
   - 상수 `TIME_WORDS`·`RECENT_PATH = "posts/_recent"`·`RECENT_TOP = 10`을 두었다.
-  - `wants_recent`: 출처가 전체·우리 글이고 시간 낱말이 있으면 True다. "가장"은 `RANK_WORDS`에 그대로 둬서, "가장 최근 댓글"에는 두 조각이 다 붙는다.
+  - `wants_recent`: 출처가 전체·우리 글이고, 시간 낱말과 활동 낱말(`ACTIVITY_WORDS`, 리뷰 반영)이 함께 있으면 True다. "가장"은 `RANK_WORDS`에 그대로 둬서, "가장 최근 댓글"에는 두 조각이 다 붙는다.
   - `recent_activity(repo, now, tz)`는 두 절을 만든다.
     - "최근 게시 글": `- 11-12 00:30 게시 | 인스타그램 | 제목`.
     - "최근 댓글": `- 11-12 01:05 | 인스타그램 | 글 제목 | 댓글: … → 답글: …/없음`. 숨김·스팸은 빼고, 이름은 지우고, 120자로 자른다. 댓글 단 글이 최근 10건 밖이어도 제목을 따로 찾는다. 글이 지워졌으면 "알 수 없는 글"이다.
@@ -39,7 +39,7 @@
   - 검색은 가짜 임베더(빈 색인 → 근거 없음)를 썼다. 답은 keyring의 Claude 키로 한 번 불렀다(haiku, $0.0002).
   - 화면은 `docs/samples/ui/after/26-ask-recent-desktop.png`.
   - 물은 질문: "가장 최근에 달린 댓글이 뭔가요?"
-  - 답(그대로): 가장 최근에 달린 댓글은 11-13 14:46에 스레드의 '주말에 보기 좋은 굿즈 셋' 글에 달린 "굿즈 어디서 사요?"입니다[1]. 이 댓글에는 아직 답글이 없습니다[1].
+  - 답(리뷰 반영 뒤 다시 물은 것, 그대로): 가장 최근에 달린 댓글은 11-13 14:59 스레드의 "주말에 보기 좋은 굿즈 셋" 글에 달린 "굿즈 어디서 사요?"입니다 [1]. 이 댓글에는 아직 답글이 없습니다 [1]. 기준 시각은 2026-11-13 15:39(Asia/Seoul)입니다 [1].
   - 근거: [1] 우리 글 · 최근 활동(11-13 기준) · 요약.
   - 10분 전의 숨긴 댓글은 건너뛰었다. 보내지 못한 초안은 "답글 없음"으로 읽혔다. "가장"에 성과 요약도 걸렸지만 예시 DB에 지표가 없어 붙지 않았다.
 
@@ -53,20 +53,26 @@
 - **테스트 문구가 조각의 안내 문장과 겹쳤다.**
   - "숨긴 댓글"이 빠졌는지 보려고 `"숨긴 댓글" not in text`를 썼다. 그런데 조각 안내 줄 "숨긴 댓글·스팸은 빼고"에 같은 글자가 있어 실패했다.
   - 예시 본문을 안내 문장에 없는 글귀("가려 둔 글귀", "광고 글귀")로 바꿨다.
-- **글 제목 찾기 질의**: `(platform, external_id) IN ((?, ?), …)` 행 비교 대신 `external_id IN (…)`로 가져와 파이썬에서 `(플랫폼, id)` 쌍을 맞췄다. 플랫폼이 다르면 id가 같아도 다른 글이다.
+- **`/code-review` 지적 9건 중 6건을 반영했다.**
+  - 시간 낱말만으로 붙이면 "오늘 질문 수 상한"처럼 문서를 묻는 질문에도 조각이 붙는다. 그러면 0원이던 근거 없음 질문에 Claude가 불린다. 그래서 활동 낱말(`ACTIVITY_WORDS`: 글·게시·올린·답한 …)이 함께 있을 때만 붙인다.
+  - 지운·실패한 글의 댓글이 10자리를 차지할 수 있었다. 이제 게시된 글과 `JOIN`해 그 글에 달린 댓글만 싣는다. 같은 (플랫폼, 글 id) 게시 줄이 둘이어도 한 번이고, 빈 글 id끼리는 잇지 않는다. 제목도 같은 질의에서 나와 따로 찾던 질의가 없어졌다.
+  - 줄 시각(MM-DD)에 연도가 없어 해가 바뀔 때 헷갈릴 수 있었다. 안내 줄에 연도가 든 "기준 시각"을 둔다.
+  - 시각 글자 만들기(`_when`)가 이상한 값에 예외를 던졌다. 이제 `_day`처럼 빈 글자를 돌려준다.
+  - 글 제목 만들기를 `_post_title` 하나로 모아 성과 요약과 함께 쓴다.
+  - 그대로 둔 셋은 ADR 0071 "리뷰에서 그대로 둔 것"에 이유를 적었다: "가장"을 RANK_WORDS에서 빼기, 다시 임베딩 비용, 자리표시자 지시.
 
 ## 테스트 결과
 
 - `uv run ruff check . && uv run ruff format --check .` 통과.
-- `uv run pytest -m "not contract"`: 1397 passed(R6 뒤 1378 → +19), 13 deselected.
+- `uv run pytest -m "not contract"`: 1398 passed(R6 뒤 1378 → +20), 13 deselected.
 - 새 테스트
-  - `tests/unit/test_rag_recent.py`(16개)
-    - 시간 낱말 있음 4가지, 없음·docs/collected면 안 붙음, "가장"은 두 조각 다.
+  - `tests/unit/test_rag_recent.py`(17개)
+    - 시간 낱말 있음 4가지, 없음·시간 낱말만 있는 문서 질문·docs/collected면 안 붙음, "가장"은 두 조각 다.
     - 시스템 지시 두 줄.
     - 최신 순과 서울 시각(UTC 15:30 → 00:30).
     - 숨김·스팸 제외, 보내지 못한 초안은 "없음", 사람이 보낸 답글은 실음.
     - 이름·핸들 지움과 120자.
-    - 10건 상한과 모르는 글.
+    - 10건 상한, 게시된 글의 댓글만(지운 글·실패한 글·빈 글 id 제외), 연도 든 기준 시각.
     - 글도 댓글도 없으면 None, 글만 있으면 "최근 댓글: 없음".
     - 근거 없음+최근 활동만으로 Claude를 부르고, `doc_chunks`에 없음.
     - 성과 요약과 같이 붙으면 기록까지 둘 다 `score: null`·`summary: true`.

diff --git a/docs/adr/0071-recent-activity-for-time-questions.md b/docs/adr/0071-recent-activity-for-time-questions.md
@@ -30,13 +30,14 @@
   - created_at이 없으면 날짜 없이 예전 형식으로 쓴다.
 - **최근 활동 조각**의 경로는 `posts/_recent`이고 제목 경로는 "우리 글 > 최근 활동(MM-DD 기준)"이다. 내용은 두 절이다.
   - 최근 게시 글 10건: `- MM-DD HH:MM 게시 | 플랫폼 | 제목`.
-  - 최근 댓글 10건, 숨김·스팸 제외, 최신이 맨 위: `- MM-DD HH:MM | 플랫폼 | 글 제목 | 댓글: 본문 120자 → 답글: 답글 120자 또는 "없음"`.
-  - 시각은 설정 시간대로 바꿔 쓴다. 조각은 최근 열 건만 담고 머리에 기준 날짜가 있어, 연도 없이 MM-DD로도 충분하다.
+  - 최근 댓글 10건, 최신이 맨 위: `- MM-DD HH:MM | 플랫폼 | 글 제목 | 댓글: 본문 120자 → 답글: 답글 120자 또는 "없음"`. 게시된 글에 달린 댓글만 싣고 숨김·스팸은 뺀다. 지운·실패한 글의 댓글이 10자리를 차지하지 않게 우리 글 문서와 같은 기준을 쓴다(리뷰).
+  - 시각은 설정 시간대로 바꿔 쓴다. 줄은 짧게 MM-DD HH:MM으로 쓰고, 안내 줄에 연도가 든 기준 시각(`기준 시각 2026-11-12 12:00(Asia/Seoul)`)을 둔다. 해가 바뀔 때(01-02에 본 "12-30")와 "어제"를 이 시각으로 가린다(리뷰).
   - 작성자 이름은 `scrub_people`로 지우는 데만 쓰고 싣지 않는다(ADR 0065).
   - 답글은 실제로 나간 것만 싣는다. 판정은 `sources_db.reply_sent`로 빼서 우리 글 문서와 함께 쓴다.
   - 글도 댓글도 없으면 조각을 붙이지 않는다.
-- **붙이는 조건**(`wants_recent`)은 `wants_summary`와 같다.
-  - 출처가 전체 또는 우리 글이고, 질문에 `TIME_WORDS`(최근·마지막·방금·어제·오늘·그제·이번 주·지난주·지난 주·새로 달린·새 댓글)가 있을 때다.
+- **붙이는 조건**(`wants_recent`)은 출처가 `wants_summary`와 같고(전체·우리 글), 낱말 두 묶음이 함께 있어야 한다.
+  - `TIME_WORDS`(최근·마지막·방금·어제·오늘·그제·이번 주·지난주·지난 주·새로 달린·새 댓글) 하나와, 글·댓글 활동을 묻는 `ACTIVITY_WORDS`(글·게시·올린·올렸·답한·답했·반응; "댓글"·"답글"은 "글"에 걸림) 하나가 함께 있을 때다.
+  - 시간 낱말만으로 붙이면 "오늘 질문 수 상한", "최근 며칠 수집 자료"처럼 문서를 묻는 질문에도 조각이 붙는다. 그러면 근거 없음이라 0원이던 질문에 Claude가 불린다(리뷰). 요청서의 "시간 낱말이 있으면"보다 좁혔다.
   - "가장"은 `RANK_WORDS`에 그대로 둔다. 그래서 "가장 최근 댓글"에는 두 조각이 다 붙는다.
   - 붙었으면 검색이 근거 없음이어도 Claude를 부른다(ADR 0068과 같은 예외).
 - **DB 조각 판정은 경로로 한다**: `h.path in DB_PATHS`(`posts/_summary`, `posts/_recent`).
@@ -56,12 +57,18 @@
   - 우리 글 문서의 댓글 줄에도 날짜가 생겨, 검색으로 찾은 댓글에 "언제"를 답할 수 있다.
 - 감수하는 것
   - **댓글 줄이 바뀌어 다음 밤 색인 때 댓글 조각이 한 번 다시 임베딩된다**(sha256 증분, 조각 단위). 우리 글 조각은 237개(R4c 복사본)다. 이 중 댓글 절이 든 조각만 바뀌고, 전부 바뀌어도 한 회 900건·하루 1000건 안에서 한 번에 끝난다.
-  - **시간 낱말은 목록이다.** "요즘", "얼마 전"처럼 목록에 없는 표현은 놓친다. "오늘"·"최근"은 흔한 낱말이라, 시간과 무관한 질문(예: "최근 바뀐 설정")에도 조각이 붙어 프롬프트가 길어진다(질문당 최대 20줄).
+  - **낱말은 목록이다.** "요즘", "얼마 전"처럼 목록에 없는 표현은 놓친다. "누가 마지막에 말 걸었어"처럼 활동 낱말 없이 묻는 질문도 놓친다. "글"은 흔한 낱말이라 "최근 글쓰기 규칙"처럼 문서를 묻는 질문에는 여전히 붙는다(질문당 최대 20줄).
   - 최근 열 건만 담는다. "지난주 수요일 댓글"처럼 열 건보다 먼 것은 검색(댓글 줄 날짜)에 기댄다.
 - 다시 볼 조건
-  - 시간과 무관한 질문에 조각이 자주 붙으면 낱말을 줄이거나 "댓글·글·올린·답" 낱말과 함께일 때만 붙인다.
+  - 놓치는 질문이 잦으면 `ACTIVITY_WORDS`를 늘리고, 엉뚱하게 붙는 질문이 잦으면 "글"을 "올린 글"·"댓글"처럼 좁힌다.
   - 열 건이 모자라다는 질문이 나오면 `RECENT_TOP`을 늘리거나, 질문의 날짜("어제")로 기간을 거른다.
 
 ## 다른 ADR에 남긴 표시
 
 - ADR 0068: 개정 1로 이 ADR을 잇는다(DB 조각 판정이 경로로 바뀜).
+
+## 리뷰에서 그대로 둔 것
+
+- "가장"을 `RANK_WORDS`에서 빼라: 요청서가 정한 대로 둔다. "가장 최근 댓글"에는 성과 요약도 붙는다. 다만 지표가 없으면 요약은 붙지 않고, 붙어도 Claude는 시간 순서 지시대로 답한다.
+- 댓글 줄 날짜로 다음 색인 때 다시 임베딩된다: 위 "감수하는 것"에 적었다(우리 글 조각 237개 안, 하루 한도 안).
+- 자리표시자 지시가 R7과 무관하다: 요청서의 3번 목표이고, 위 결정에 적었다.

diff --git a/CHANGELOG.md b/CHANGELOG.md
@@ -5,7 +5,7 @@
 ## [Unreleased]
 
 ### Changed
-- 문서 질문이 "가장 최근에 달린 댓글", "어제 올린 글" 같은 시간 질문에 답함(R7): 최근·마지막·어제·오늘 같은 낱말이 든 질문에는 물을 때의 DB로 만든 "최근 활동" 요약(최근 게시 글·최근 댓글 10건씩, 숨김·스팸 제외, 보낸 답글만, 작성자 이름 없음)을 근거로 붙이고, 우리 글 근거의 댓글 줄 앞에 날짜를 넣음(다음 밤 색인 때 댓글 조각만 한 번 다시 임베딩). 설명서의 "N분·M분" 같은 자리표시자를 예시 숫자로 바꾸고 답에 그대로 옮기지 않게 함(ADR 0071)
+- 문서 질문이 "가장 최근에 달린 댓글", "어제 올린 글" 같은 시간 질문에 답함(R7): 최근·마지막·어제·오늘 같은 낱말과 글·댓글을 묻는 낱말이 함께 든 질문에는 물을 때의 DB로 만든 "최근 활동" 요약(최근 게시 글·최근 댓글 10건씩, 숨김·스팸 제외, 보낸 답글만, 작성자 이름 없음)을 근거로 붙이고, 우리 글 근거의 댓글 줄 앞에 날짜를 넣음(다음 밤 색인 때 댓글 조각만 한 번 다시 임베딩). 설명서의 "N분·M분" 같은 자리표시자를 예시 숫자로 바꾸고 답에 그대로 옮기지 않게 함(ADR 0071)
 - 문서 질문 화면을 질문하러 오는 화면으로 정리(R6): 순서를 질문 칸 → 답 → 최근 질문 → 검색 측정(개발용, 기본 접힘)으로, 맨 위 설명은 한 줄 + "자세히", 예시 질문 칩 넷과 출처 고르기 칩(전체·문서·수집·우리 글), 근거 접힌 줄은 경로 전체 대신 짧은 제목·문서 제목(펼치면 전체 경로), 최근 질문은 표 대신 카드(답 두 줄 미리보기·근거 배지). 400px에서 가로 스크롤 없음. 검색·답변·기록 동작은 그대로(ADR 0070)
 - 문서 질문 검색 결과를 문서 단위로 묶고 우리 글 근거에 글 주소를 붙임(R4d): 같은 원고(인스타·스레드·카드)·같은 수집 기사·같은 문서 파일은 근거 다섯 자리 중 한 자리(`rag.per_doc` 기본 1, 측정으로 고름). 복사본에서 질문 1번 정답 기사 4 → 2등, 중복 문서 0, 문서 질문 20개 측정표 그대로. 우리 글 근거에 "스레드 글 보기 · 인스타그램 글 보기" 링크(ADR 0067)
 - 문서 질문 "우리 글" 출처에서 카드 문구를 원고당 한 번만 색인(R4c): 인스타·스레드에 둘 다 올린 원고의 카드 문구가 두 벌로 검색 상위를 나눠 갖던 것을 원고당 카드 문서 하나(`posts/<content_id>/cards`)로. 우리 글 조각 307 → 237(복사본), 질문 1번 정답 기사 5 → 4등. 다음 밤 색인이 카드 조각 약 70개(복사본 기준)와 바뀐 문서만 새로 임베딩(ADR 0065 개정 2)
